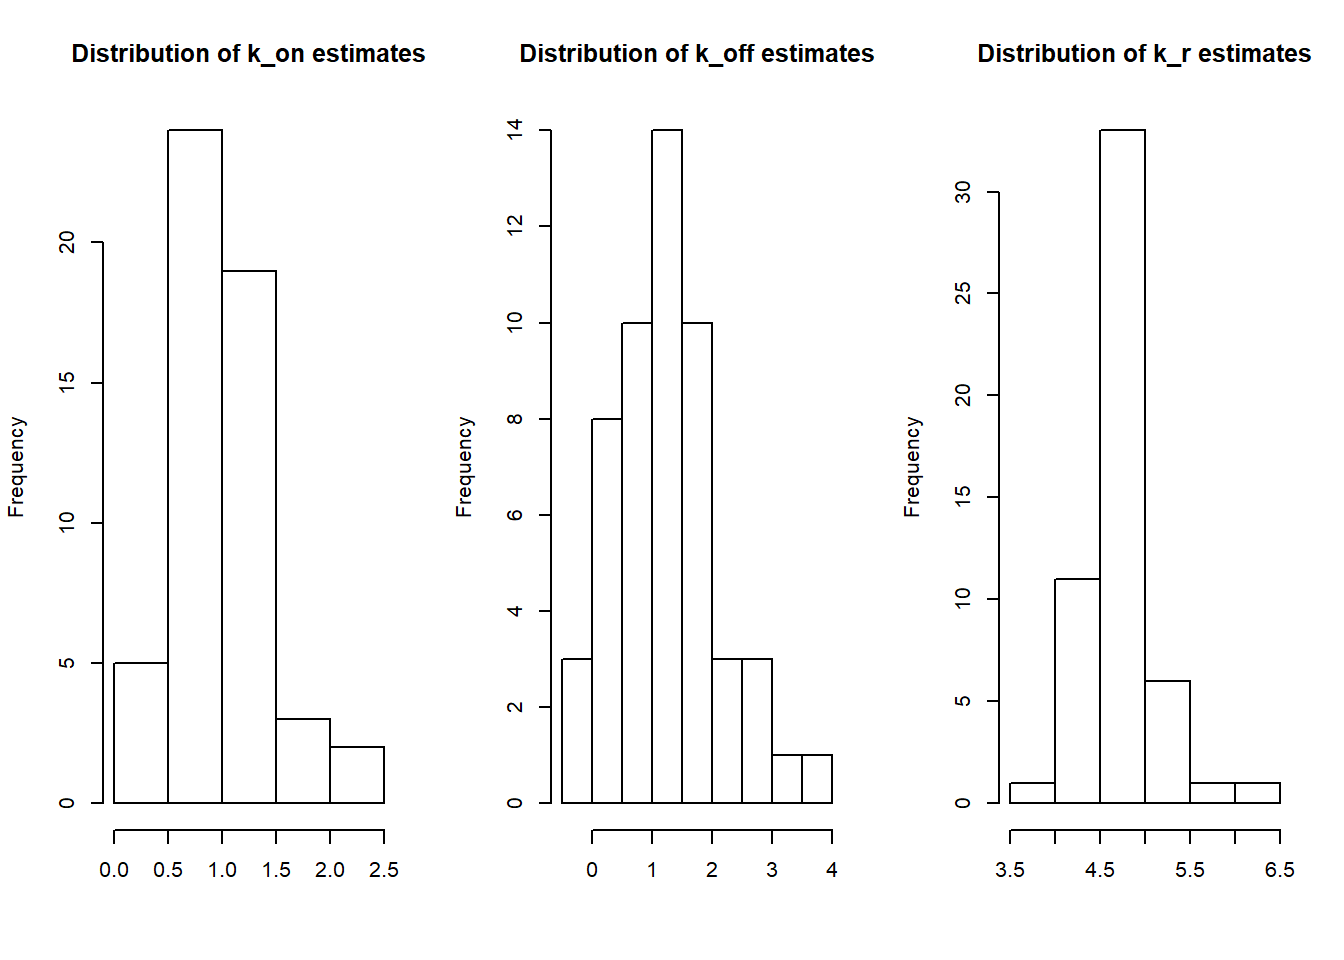
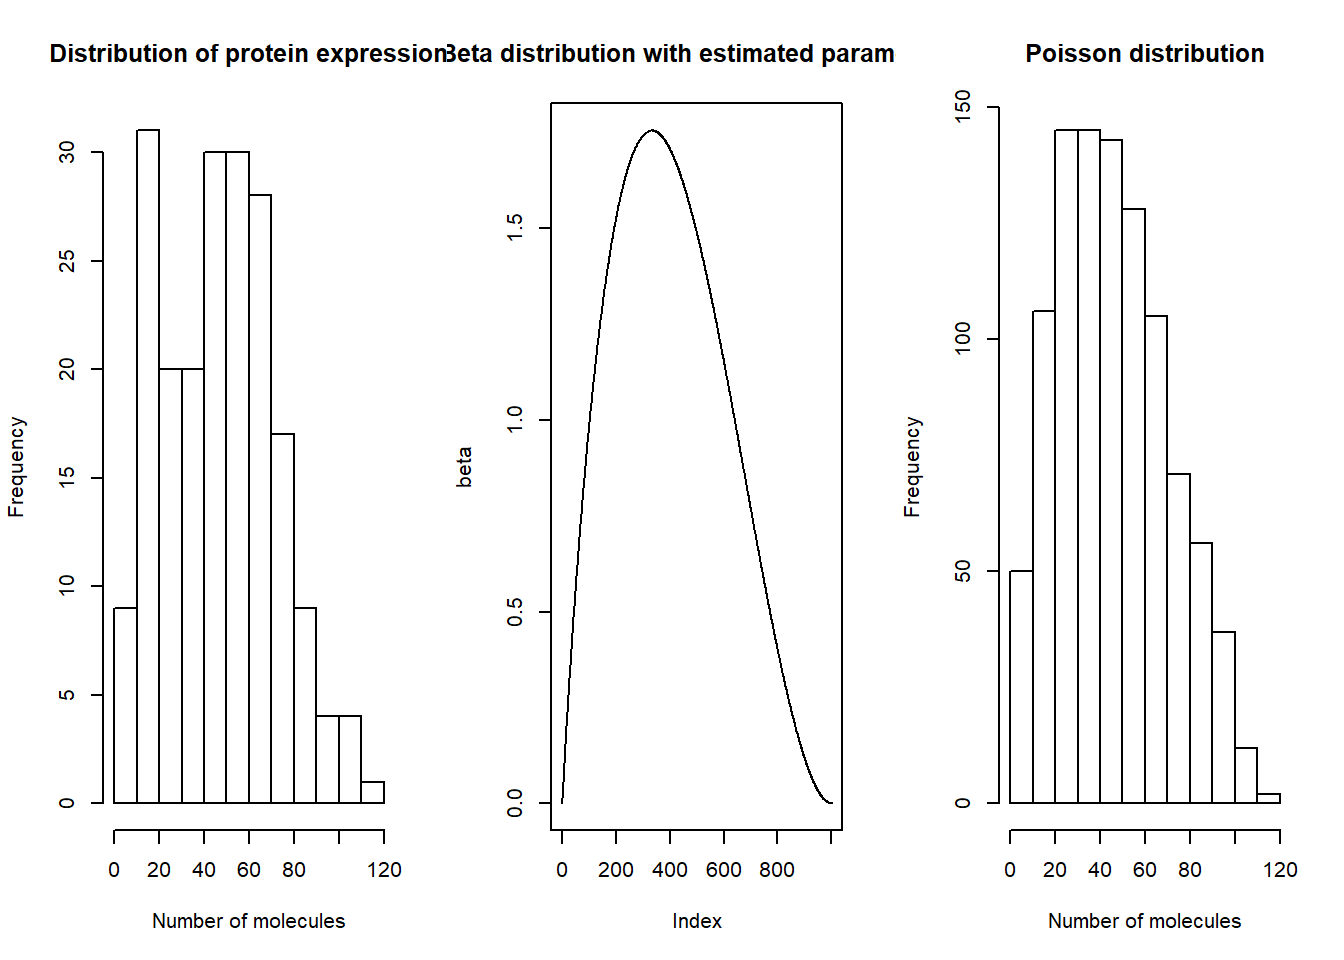
Build site.

diff --git a/docs/Real_data_filter.html b/docs/Real_data_filter.html
@@ -344,7 +344,7 @@ div.section {
 <div class="tab-content">
 <div id="summary" class="tab-pane fade in active">
 <p>
-<strong>Last updated:</strong> 2020-02-03
+<strong>Last updated:</strong> 2020-02-05
 </p>
 <p>
 <strong>Checks:</strong> <span class="glyphicon glyphicon-ok text-success" aria-hidden="true"></span> 6 <span class="glyphicon glyphicon-exclamation-sign text-danger" aria-hidden="true"></span> 1
@@ -459,10 +459,10 @@ analysis/MLE.py
 <div class="panel panel-default">
 <div class="panel-heading">
 <p class="panel-title">
-<a data-toggle="collapse" data-parent="#workflowr-checks" href="#strongRepositoryversionstrongahrefhttpsgithubcomMargareth2407ThesissingleRNAtree2672ae35ab574e9dc1e114753063a0431be82420targetblank2672ae3a"> <span class="glyphicon glyphicon-ok text-success" aria-hidden="true"></span> <strong>Repository version:</strong> <a href="https://github.com/Margareth2407/Thesis_single_RNA/tree/2672ae35ab574e9dc1e114753063a0431be82420" target="_blank">2672ae3</a> </a>
+<a data-toggle="collapse" data-parent="#workflowr-checks" href="#strongRepositoryversionstrongahrefhttpsgithubcomMargareth2407ThesissingleRNAtreedded3df4b2c22a8b6096ab411b889038e7f66098targetblankdded3dfa"> <span class="glyphicon glyphicon-ok text-success" aria-hidden="true"></span> <strong>Repository version:</strong> <a href="https://github.com/Margareth2407/Thesis_single_RNA/tree/dded3df4b2c22a8b6096ab411b889038e7f66098" target="_blank">dded3df</a> </a>
 </p>
 </div>
[2 lines of base64/hex data omitted]
 <div class="panel-body">
 <p>
 Great! You are using Git for version control. Tracking code development and connecting the code version to the results is critical for reproducibility. The version displayed above was the version of the Git repository at the time these results were generated. <br><br> Note that you need to be careful to ensure that all relevant files for the analysis have been committed to Git prior to generating the results (you can use <code>wflow_publish</code> or <code>wflow_git_commit</code>). workflowr only checks the R Markdown file, but you know if there are other scripts or data files that it depends on. Below is the status of the Git repository when the results were generated:
@@ -473,11 +473,9 @@ Ignored files:
     Ignored:    .Rhistory
     Ignored:    analysis/.RData
     Ignored:    analysis/.Rhistory
-    Ignored:    analysis/figure/
 
 Unstaged changes:
     Modified:   Data_sim.Rmd
-    Modified:   analysis/MLE_estimation_with_noise_parameter.Rmd
 
 </code></pre>
 <p>
@@ -500,6 +498,7 @@ There are no past versions. Publish this analysis with <code>wflow_publish()</co
 <p>In this vignette we will load the data, pre-process it and analyse top gene by p_beta parameter.</p>
 <div id="filtering" class="section level2">
 <h2>Filtering</h2>
+<p>Here we load raw dataset and filter it by cell, individual parameters and order genes by smallest p beta parameter</p>
 <pre class="r"><code>library(dplyr)</code></pre>
 <pre><code>Warning: package &#39;dplyr&#39; was built under R version 3.5.3</code></pre>
 <pre><code>
@@ -510,8 +509,8 @@ Attaching package: &#39;dplyr&#39;</code></pre>
 <pre><code>The following objects are masked from &#39;package:base&#39;:
 
     intersect, setdiff, setequal, union</code></pre>
-<pre class="r"><code>raw_data&lt;-read.table(&quot;D:/Uchicago/Thesis/Real_data/scqtl-counts/scqtl-counts.txt&quot;, header = TRUE, sep = &quot;&quot;, dec = &quot;.&quot;)</code></pre>
-<pre class="r"><code>combined_filter&lt;-read.table(&quot;D:/Uchicago/Thesis/Real_data/combined_filter.txt&quot;, header = FALSE, sep = &quot;,&quot;, dec = &quot;.&quot;)
+<pre class="r"><code>raw_data&lt;-read.table(&quot;D:/Uchicago/Thesis/Real_data/scqtl-counts/scqtl-counts.txt&quot;, header = TRUE, sep = &quot;&quot;, dec = &quot;.&quot;)
+combined_filter&lt;-read.table(&quot;D:/Uchicago/Thesis/Real_data/combined_filter.txt&quot;, header = FALSE, sep = &quot;,&quot;, dec = &quot;.&quot;)
 combined_filter[,1]&lt;-combined_filter[,1]+2 #adjusting index from python to R
 data&lt;-data.frame(raw_data[,1],raw_data[,combined_filter[,1]])
 colnames(data)[1]&lt;-&quot;gene&quot;
@@ -525,7 +524,7 @@ clean_data &lt;- data[,1:(ncol(data)-1)]</code></pre>
 </div>
 <div id="maximum-likelihood-estimation-for-one-gene" class="section level2">
 <h2>Maximum likelihood estimation for one gene</h2>
-<p>Below we take the gene with the smallest p beta and estimate the parameters for all individuals</p>
+<p>Below we take the gene with the smallest p beta and estimate the parameters for all individuals that passed quality control</p>
 <pre class="r"><code>library(reticulate)</code></pre>
 <pre><code>Warning: package &#39;reticulate&#39; was built under R version 3.5.3</code></pre>
 <pre class="r"><code>library(robustbase)</code></pre>
@@ -552,28 +551,28 @@ x=estimate_MLE_one_gene(top_gene)</code></pre>
 <pre class="r"><code>estimates=x[[1]]
 info=x[[2]]
 par(mfrow=c(1,3))
-hist(log(estimates[,1]), main=&quot;Distribution of k_on estimates&quot;, xlab=&quot;&quot;)
-hist(log(estimates[,2]), main=&quot;Distribution of k_off estimates&quot;, xlab=&quot;&quot;)
-hist(log(estimates[,3]), main=&quot;Distribution of k_r estimates&quot;, xlab=&quot;&quot;)</code></pre>
-<p><img src="figure/Real_data_filter.Rmd/unnamed-chunk-6-1.png" width="672" style="display: block; margin: auto;" /></p>
+hist(log(estimates[,1]), main=&quot;Distribution of k_on estimates&quot;, xlab=&quot;&quot;, ylab=&quot;Number of individuals&quot;)
+hist(log(estimates[,2]), main=&quot;Distribution of k_off estimates&quot;, xlab=&quot;&quot;, ylab=&quot;Number of individuals&quot;)
+hist(log(estimates[,3]), main=&quot;Distribution of k_r estimates&quot;, xlab=&quot;&quot;, ylab=&quot;Number of individuals&quot;)</code></pre>
+<p><img src="figure/Real_data_filter.Rmd/unnamed-chunk-5-1.png" width="672" style="display: block; margin: auto;" /></p>
 </div>
 <div id="distribution-for-one-individuals" class="section level2">
 <h2>Distribution for one individuals</h2>
 <p>Then we take the individual with most cells (NA18501) and take a look at the estimated parameters:</p>
 <p>The first plot is the real protein level distribution for NA18501 individual. Second and third plots are beta and poisson distributions with the estimated <span class="math inline">\(k_{on}\)</span>,<span class="math inline">\(k_{off}\)</span> and <span class="math inline">\(k_r\)</span> parameters.</p>
-<p><img src="figure/Real_data_filter.Rmd/unnamed-chunk-7-1.png" width="672" style="display: block; margin: auto;" /></p>
+<p><img src="figure/Real_data_filter.Rmd/unnamed-chunk-6-1.png" width="672" style="display: block; margin: auto;" /></p>
 </div>
 <div id="boxplots-by-genotype" class="section level2">
 <h2>Boxplots by genotype</h2>
 <p>We can get the genotype of the individuals and compare it to the estimated <span class="math inline">\(k_{on}\)</span>, <span class="math inline">\(k_{off}\)</span> and <span class="math inline">\(k_{r}\)</span> parameters.</p>
 <pre><code>Warning: Column `ind` joining factors with different levels, coercing to
 character vector</code></pre>
-<p><img src="figure/Real_data_filter.Rmd/unnamed-chunk-9-1.png" width="672" style="display: block; margin: auto;" /></p>
+<p><img src="figure/Real_data_filter.Rmd/unnamed-chunk-8-1.png" width="672" style="display: block; margin: auto;" /></p>
 </div>
 <div id="regression" class="section level1">
 <h1>Regression</h1>
 <p>Finally we can fit the regression to estimate linear dependance of genotype on estimated parameters.</p>
-<p><img src="figure/Real_data_filter.Rmd/unnamed-chunk-10-1.png" width="672" style="display: block; margin: auto;" /></p>
+<p><img src="figure/Real_data_filter.Rmd/unnamed-chunk-9-1.png" width="672" style="display: block; margin: auto;" /></p>
 <br>
 <p>
 <button type="button" class="btn btn-default btn-workflowr btn-workflowr-sessioninfo" data-toggle="collapse" data-target="#workflowr-sessioninfo" style="display: block;">
